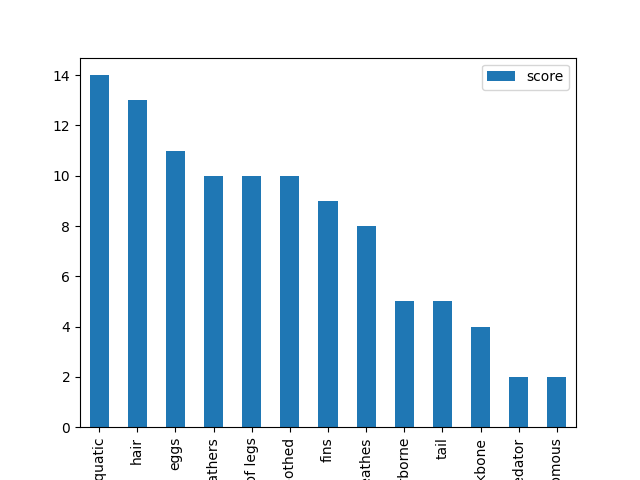
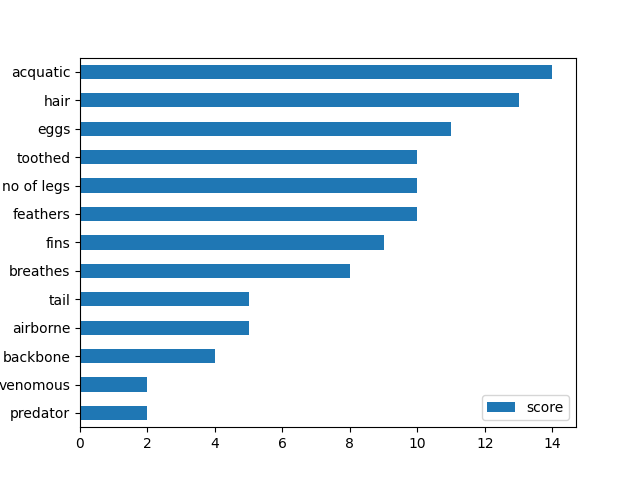
fixed rf and bst feature importances

Changed region(s): [[0.0, 0.125, 0.9062, 1.0]]

diff --git a/rdr.py b/rdr.py
@@ -343,14 +343,14 @@ print("Done")
 
 # train decision tree
 print(f"training decision tree as \"black box\" classifier...", end='')
-X = df.iloc[:,1:-4] # X-values: leave out last 2 columns (encoded, conclusion) as well as first column (name)
+X = df.iloc[:,1:-3] # X-values: leave out last 3 columns (target, encoded, conclusion) as well as first column (name)
 y = df.iloc[:,-2].astype('int') # take target as encoded column (second last column). note: all values must be numeric - hence encoded
 dt = DecisionTreeClassifier()
 dt = dt.fit(X, y)
 
 # show the dt - in file
 #tree.plot_tree(dt) # doesnt work
-feature_names = df.columns.values[1:-4] # leave out last 3 columns (4 and dont give name)
+feature_names = df.columns.values[1:-3] # leave out last 3 columns (target, encoded, conclusion) as well as first column (name)
 target_names = np.unique(df['target'].values) # unique target values - sorted (for some reason)
 #tree.export_graphviz(clf, out_file=dot_data) #le.inverse_transform(list(transformed))
 dot_data = StringIO()
@@ -378,7 +378,7 @@ print("Done")
 # train xgboost
 print(f"training xgboost as \"black box\" classifier...", end='')
 # xgboost uses a dmatrix instead of a dataframe
-dmatrix = xgb.DMatrix(X, label=y)
+dmatrix = xgb.DMatrix(X, label=y, feature_names=feature_names)
 num_round = 10
 bst = xgb.train([], dmatrix, num_round, [])
 bst.save_model('xgboostmodel.model')
@@ -592,7 +592,7 @@ while (True):
 
         forest_importances = pd.Series(result.importances_mean, index=feature_names)
         fig, ax = plt.subplots()
-        forest_importances.plot.bar(yerr=result.importances_std, ax=ax)
+        forest_importances.plot.bar(ax=ax)
         ax.set_title("Feature importances using permutation on full model")
         ax.set_ylabel("Mean accuracy decrease")
         fig.tight_layout()
@@ -600,23 +600,41 @@ while (True):
         print("Done\n")
     # get feature importance from xgboost
     elif i == 10:
-        # built in feature importances
-        xgb.plot_importance(bst)
-        plt.show()
-        xgboost2 = "xgboostfeatureimportance.png"
-        plt.savefig(xgboost2)
-        print(f"Saved feature importances plot 1 to file: {xgboost2}")
-        # custom feature importance
-        feature_important = bst.get_score(importance_type='weight')
-        keys = list(feature_important.keys())
-        values = list(feature_important.values())
+        # using xgb.feature_importances_
+        #plt.bar(feature_names, bst.feature_importances_)
+        #xgboost0 = "xgboostfeature_importances_.png"
+        #plt.savefig(xgboost0)
+        #print(f"Saved feature importances plot 0 to file: {xgboost0}")
+        print(bst.feature_names)
+        print(bst.get_score(importance_type='weight'))
 
-        data = pd.DataFrame(data=values, index=keys, columns=["score"]).sort_values(by = "score", ascending=False)
-        data.plot(kind='bar')
-        xgboost1 = 'xgboostfeatureimportancecustom.png'
-        plt.savefig(xgboost1)
-        plt.show()
-        print(f"Saved feature importances plot 2 to file: {xgboost1}\n")
+        # using xgb.plot_importance - weight
+        xgb.plot_importance(bst, importance_type="weight", title="Feature importance - weight") #default is weight
+        weightplot = "xgboostplot_importance_weight.png"
+        plt.savefig(weightplot)
+        print(f"Saved feature importances by weight to file: {weightplot}")
+        # using xgb.plot_importance - gain
+        xgb.plot_importance(bst, importance_type = "gain", title="Feature importance - gain")
+        gainplot = "xgboostplot_importance_gain.png"
+        plt.savefig(gainplot)
+        print(f"Saved feature importances by gain to file: {gainplot}")
+        # using xgb.plot_importance - cover
+        xgb.plot_importance(bst, importance_type = "cover", title="Feature importance - cover")
+        coverplot = "xgboostplot_importance_cover.png"
+        plt.savefig(coverplot)
+        print(f"Saved feature importances by cover to file: {coverplot}")
+        
+        # custom feature importance - does the same as above
+        #feature_important = bst.get_score(importance_type='weight')
+        #keys = list(feature_important.keys())
+        #values = list(feature_important.values())
+
+        #data = pd.DataFrame(data=values, index=keys, columns=["score"]).sort_values(by = "score", ascending=True)
+        #data.plot(kind='barh')
+        #xgboost1 = 'xgboostfeatureimportancecustom.png'
+        #plt.savefig(xgboost1)
+        #plt.show()
+        #print(f"Saved feature importances plot 2 to file: {xgboost1}\n")
     # save or read in rules_list
     elif i == 11:
         saveorload = input("Would you like to save or load rules? (s/l): \n").lower()
